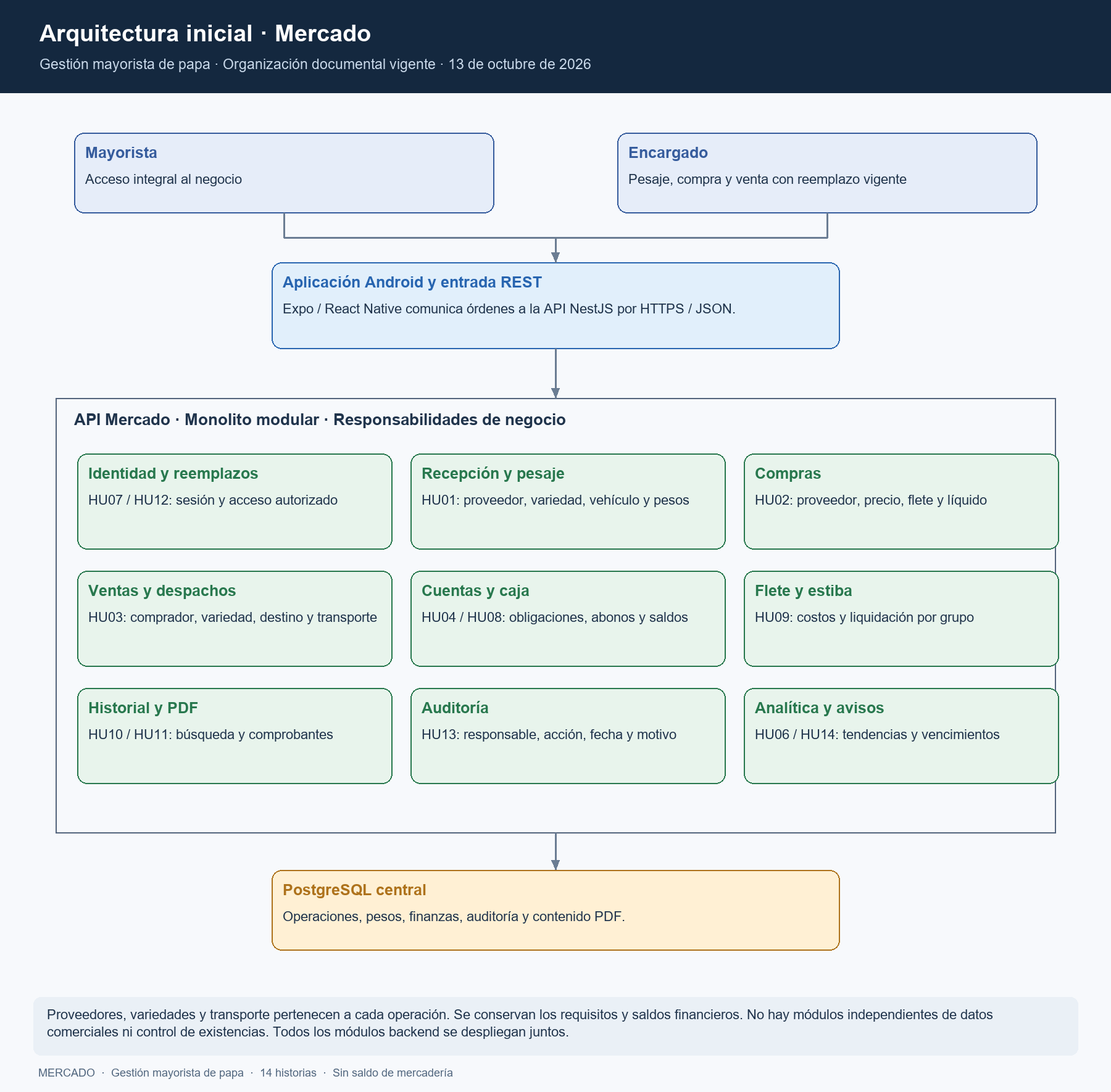
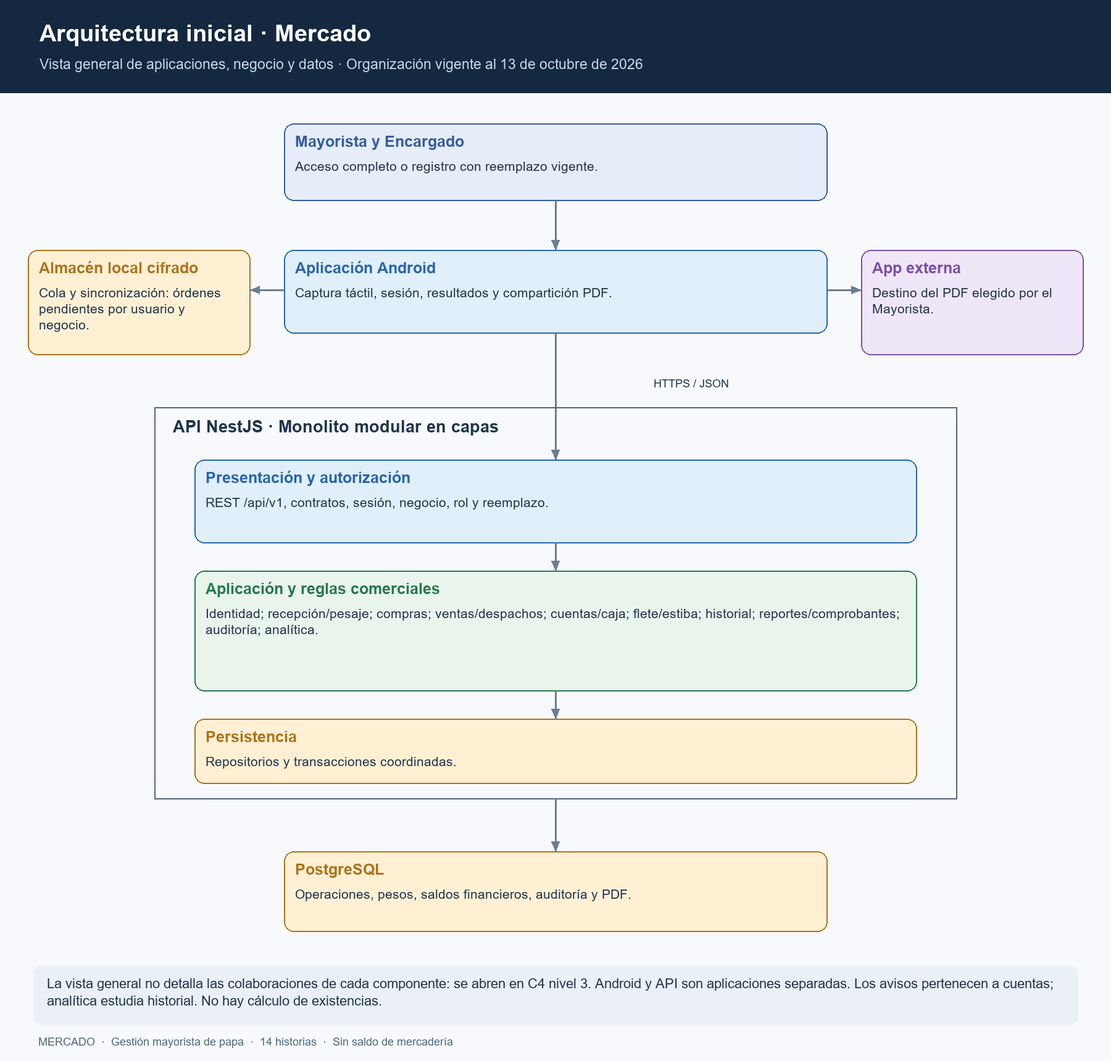
docs: consolida requisitos, módulos y diagramas de Mercado

diff --git a/docs/01-analisis-de-sistema/03-requisitos-funcionales.md b/docs/01-analisis-de-sistema/03-requisitos-funcionales.md
@@ -4,10 +4,10 @@
 
 | Proceso | Código | Requisito |
 | --- | --- | --- |
-| Recepción y compras | RF 03 | Conservar proveedores y compradores como datos asociados a las operaciones comerciales. |
-| Recepción y ventas | RF 04 | Conservar variedad, calidad, procedencia, presentación y unidad de medida en cada operación. |
 | Usuarios y acceso | RF 01 | Permitir iniciar y cerrar sesión con credenciales individuales, proteger rutas y revocar el acceso de la sesión cerrada. |
 | Usuarios y acceso | RF 02 | Permitir al Mayorista autorizar y revocar reemplazos de máximo 24 horas; restringir al Encargado al pesaje, compras y ventas durante su vigencia. |
+| Recepción, compras y ventas | RF 03 | Registrar y consultar proveedores y compradores dentro de recepción, compras y ventas, conservando contacto, ubicación, límite de crédito y estado. |
+| Recepción y ventas | RF 04 | Registrar y consultar los datos de papa dentro de recepción y ventas: variedad, calidad, procedencia, presentación, unidad de medida y precio referencial. |
 | Recepción | RF 05 | Permitir al mayorista o al encargado que lo reemplaza registrar fecha, proveedor, teléfono, vehículo, conductor y variedades antes de la descarga. |
 | Recepción | RF 06 | Permitir al mayorista o al encargado que lo reemplaza registrar consecutivamente cada saco y asociarlo con la variedad correspondiente. |
 | Recepción | RF 06A | Mostrar en tiempo real sacos, peso y promedio por variedad y del cargamento completo, y permitir correcciones autorizadas antes del cierre. |
@@ -18,15 +18,15 @@
 | Ventas | RF 12 | Generar y compartir comprobantes internos de compras y ventas confirmadas por medios digitales. |
 | Cuentas por cobrar | RF 13 | Registrar condiciones de crédito de clientes, vencimientos, abonos, saldos y compromisos de pago. |
 | Cuentas por pagar | RF 14 | Generar el saldo del proveedor cuando el pago sea en cuotas y registrar vencimientos, abonos, adelantos descontados y cancelación. |
-| Caja | RF 15 | Registrar pagos de proveedores, cobros de ventas y liquidación diaria de flete y estiba para uno o varios grupos de trabajadores. |
+| Caja | RF 15 | Registrar pagos a proveedores, cobros de ventas y liquidación diaria de flete y estiba para uno o varios grupos de trabajadores. |
 | Alertas | RF 16 | Mostrar cuentas vencidas o próximas a vencer, operaciones pendientes. |
-| Reportes | RF 17 | Consultar compras, ventas, importes registrados, costos de estiba y transporte y estado de cuentas. |
+| Reportes | RF 17 | Consultar compras, ventas, cantidades, pesos, importes registrados, costos de estiba y transporte y estado de cuentas. |
 | Analítica | RF 18 | Comparar la evolución de precios por variedad, calidad, procedencia, proveedor, cliente y periodo. |
 | Inteligencia artificial | RF 19 | Analizar progresivamente el historial validado para detectar tendencias y patrones; al alcanzar datos suficientes, generar una estimación semanal con rango, confianza y seguimiento del error. |
 | Inteligencia artificial | RF 20 | Mostrar cada estimación con rango, fecha, variables utilizadas y nivel de confianza, y comparar luego el valor previsto con el real. |
 | Operación móvil | RF 21 | Guardar temporalmente operaciones cuando no exista conexión y sincronizarlas al recuperarla. |
 | Auditoría | RF 22 | Registrar usuario, fecha, acción y motivo cuando corresponda; permitir al Mayorista consultar la auditoría de su negocio. |
-| Notificaciones | RF 23 | Enviar recordatorios configurables de pagos, cobranzas, pedidos pendientes. |
+| Notificaciones | RF 23 | Enviar recordatorios configurables de pagos, cobranzas y operaciones pendientes. |
 | Historial | RF 24 | Permitir al Mayorista buscar compras, pesajes, ventas y despachos por fecha o participante comercial y consultar su detalle. |
 
 ## Relación con los cortes de implementación
@@ -73,3 +73,18 @@ La asociación entre una venta y un cargamento de compra no se vuelve obligatori
 | HU14 | RF16, RF23 | Mostrar aviso vinculado a una cuenta y vencimiento; evitar duplicados. Canal externo pendiente de definir. |
 
 HU04 consulta cuentas; HU08 registra abonos. HU03 registra ventas; HU11 localiza registros anteriores. HU11 muestra operaciones comerciales; HU13 muestra acciones y responsables. HU14 agrega avisos de vencimiento y no una segunda consulta de saldos. RF24 explicita búsqueda e historial ya contemplados en el alcance; no reutiliza RF08/RF09 retirados. Los recordatorios externos requieren definir canal y política antes de implementarlos.
+
+## Ejemplos de saldos y excepciones
+
+| Operación ilustrativa | Importe inicial | Abono | Saldo financiero |
+| --- | --- | --- | --- |
+| Compra a crédito del proveedor | S/1.000,00 | S/600,00 pagados | S/400,00 por pagar |
+| Venta a crédito al comprador | S/800,00 | S/300,00 cobrados | S/500,00 por cobrar |
+
+En la compra el importe inicial representa la obligación final después de los descuentos acordados. Cada abono conserva fecha, responsable, origen y UUID. Reenviar el abono no modifica el saldo por segunda vez. Un abono mayor al saldo se rechaza sin escrituras parciales. El comprobante y la consulta de cuenta deben mostrar los mismos importes confirmados.
+
+Los sacos y pesos permanecen en el detalle de cada operación. Una compra de 100 sacos y una venta de 30 no producen un saldo de 70 sacos disponibles.
+
+Una anulación después de abonos no borra compra, venta ni pagos: conserva el origen y registra las compensaciones autorizadas. La comprobación debe contrastar cuenta, caja, abonos y auditoría antes/después. Anular una operación no demuestra por sí solo una devolución real de dinero; no se inventa un reembolso automático. La política del caso concreto debe estar especificada antes de implementarlo.
+
+Si el reemplazo vence antes de sincronizar, la API rechaza la confirmación y no aplica efectos. La interfaz conserva la orden como pendiente de revisión y muestra el motivo; no elimina el registro ni promete confirmación automática. El tratamiento posterior requiere una acción autorizada conforme a la especificación.

diff --git a/docs/03-diseño-de-software/diseño-interno/diseño-interno-de-modulos.md b/docs/03-diseño-de-software/diseño-interno/diseño-interno-de-modulos.md
@@ -2,18 +2,18 @@
 
 > **Proyecto:** Gestión comercial mayorista de papa · **Entregable:** 1 · **Versión:** 1.2
 
-| Componente | Responsabilidad | Corte / requisitos |
+| Responsabilidad backend | Función | Historias y requisitos |
 | --- | --- | --- |
-| Identidad | Sesiones, roles, negocio y reemplazos | 001; RF01–02 |
-| Recepción y pesaje | Proveedor, variedades, transporte, sacos, bruto/tara/neto, corrección y cierre | 002; RF03–06B |
-| Compras | Precio, flete, descuentos y liquidación | 002; RF07, RF14 |
-| Ventas y devoluciones | Despacho y compensación comercial | 003; RF10–12 |
-| Cuentas y caja | Cuotas, pagos, cobros y reversos | 004; RF13–15 |
-| Flete y estiba | Costos y liquidación de grupos | 004; RF15 |
-| Cola y sincronización | Órdenes locales, dependencias y conflictos | 005; RF21 |
-| Auditoría | Hechos anexables y consulta protegida | 005; RF22 |
-| Reportes y comprobantes | Resumen de importes, costos, precios y PDF interno | 006; RF12, RF16–18 |
-| Analítica predictiva | Estimaciones condicionadas a CL-08 | 007; RF19–20 |
+| Identidad y reemplazos | Sesiones, permisos y reemplazos | HU07, HU12; RF01–02 |
+| Recepción y pesaje | Proveedor, variedades, transporte, sacos, bruto/tara/neto y cierre | HU01; RF03–06B |
+| Compras | Proveedor, precio, flete, adelantos, descuentos y liquidación | HU02; RF03, RF07, RF14 |
+| Ventas y despachos | Comprador, variedades, destino, transporte y compensaciones | HU03; RF03–04, RF10–11, RF13 |
+| Cuentas y caja | Pagos, cobros, cuotas, saldos y avisos de vencimiento | HU04, HU08, HU14; RF13–16, RF23 |
+| Flete y estiba | Costos de transporte y liquidación de grupos | HU09; RF15 |
+| Historial comercial | Búsqueda y detalle por fecha o participante | HU11; RF24 |
+| Reportes y comprobantes | Consultas comerciales y generación/compartición PDF | HU10; RF12, RF17–18 |
+| Auditoría | Usuario, fecha, acción, motivo y origen | HU13; RF22 |
+| Analítica | Tendencias y estimaciones condicionadas a CL-08 | HU06; RF18–20 |
 
 ## Límites y datos
 
@@ -130,3 +130,22 @@ Validaciones: dinero positivo y no superior al saldo; vencimientos asociados a l
 ## Organización vigente de los datos comerciales
 
 Proveedores, compradores, variedades, vehículos y transportistas son datos de recepción, compras y ventas. No constituyen módulos independientes. Recepción conserva proveedor, variedad, vehículo y conductor del cargamento; compras utiliza esos datos para la liquidación; ventas conserva comprador, destino y transporte del despacho. RF03–RF05 mantienen su trazabilidad dentro de esas operaciones. Esta organización es el diseño vigente; no afirma una reorganización ya implementada del código.
+
+## Responsabilidad del cliente y agrupaciones
+
+Los nombres son responsabilidades del backend, no servicios desplegados por separado. **Cola y sincronización** pertenece al cliente Android (HU05; RF21): conserva órdenes cifradas y las reenvía a los contratos centrales. Los avisos financieros pertenecen a Cuentas y caja; Analítica analiza el historial. Las devoluciones y anulaciones son operaciones compensatorias dentro de Ventas y despachos o Compras, no módulos nuevos.
+
+## Ejemplos de saldos y excepciones
+
+| Operación ilustrativa | Importe inicial | Abono | Saldo financiero |
+| --- | --- | --- | --- |
+| Compra a crédito del proveedor | S/1.000,00 | S/600,00 pagados | S/400,00 por pagar |
+| Venta a crédito al comprador | S/800,00 | S/300,00 cobrados | S/500,00 por cobrar |
+
+En la compra el importe inicial representa la obligación final después de los descuentos acordados. Cada abono conserva fecha, responsable, origen y UUID. Reenviar el abono no modifica el saldo por segunda vez. Un abono mayor al saldo se rechaza sin escrituras parciales. El comprobante y la consulta de cuenta deben mostrar los mismos importes confirmados.
+
+Los sacos y pesos permanecen en el detalle de cada operación. Una compra de 100 sacos y una venta de 30 no producen un saldo de 70 sacos disponibles.
+
+Una anulación después de abonos no borra compra, venta ni pagos: conserva el origen y registra las compensaciones autorizadas. La comprobación debe contrastar cuenta, caja, abonos y auditoría antes/después. Anular una operación no demuestra por sí solo una devolución real de dinero; no se inventa un reembolso automático. La política del caso concreto debe estar especificada antes de implementarlo.
+
+Si el reemplazo vence antes de sincronizar, la API rechaza la confirmación y no aplica efectos. La interfaz conserva la orden como pendiente de revisión y muestra el motivo; no elimina el registro ni promete confirmación automática. El tratamiento posterior requiere una acción autorizada conforme a la especificación.

diff --git a/docs/04-modelo-c4/Nivel3-Diagrama-de-Componentes.md b/docs/04-modelo-c4/Nivel3-Diagrama-de-Componentes.md
@@ -24,7 +24,7 @@ Fuente editable: [nivel3-componentes.svg](../../img/fuentes-svg/nivel3-component
 | Cuentas y caja | `accounts` | Cuotas, abonos, pagos, cobros y saldo financiero; HU04/HU08 |
 | Flete y estiba | `freight`, `stowage` | Costos y liquidación trazable por grupo; HU09/RF15 |
 | Historial comercial | Consultas de `reception`, `purchase`, `sales` y `operations` | Búsqueda y detalle comercial por negocio; HU11; responsabilidad lógica sin módulo nuevo supuesto |
-| Reportes y PDF | `reports`, `receipts` | Consultas, generación y descarga autorizada de comprobantes; HU10/RF17 |
+| Reportes y PDF | `reports`, `receipts` | Consultas, generación y descarga autorizada de comprobantes; HU10/RF12; reportes RF17 |
 | Auditoría | `audit` | Registro y consulta de usuario, fecha, acción y motivo; HU13 |
 | Analítica | `analytics` | Historial validado, tendencias y estimaciones condicionadas; HU06 |
 
@@ -54,7 +54,7 @@ El contenido PDF se conserva en PostgreSQL: `receipts/receipt-document.entity.ts
 
 ## Colores de la vista
 
-Azul índigo identifica acceso; azul claro, entrada de la aplicación; verde, operaciones comerciales; ámbar, finanzas y datos; violeta, consultas y analítica; gris, auditoría y sistema externo. Las etiquetas permiten interpretar cada elemento sin depender del color.
+Azul identifica Android y entrada REST; índigo, identidad; verde, pesaje/compra/venta; ámbar, cuentas/costos y persistencia; violeta, historial/reportes/analítica; gris, auditoría. Cada elemento mantiene su etiqueta. Avisos de vencimiento pertenece a Cuentas y caja.
 
 ## Reglas del monolito y del alcance
 
@@ -75,3 +75,20 @@ Anterior: [Nivel 2 Contenedores](Nivel2-DiagramadeContenedores.md). Siguiente: [
 ## Organización vigente de los datos comerciales
 
 Proveedores, compradores, variedades, vehículos y transportistas son datos de recepción, compras y ventas. No constituyen módulos independientes. Recepción conserva proveedor, variedad, vehículo y conductor del cargamento; compras utiliza esos datos para la liquidación; ventas conserva comprador, destino y transporte del despacho. RF03–RF05 mantienen su trazabilidad dentro de esas operaciones. Esta organización es el diseño vigente; no afirma una reorganización ya implementada del código.
+
+## Correspondencia de responsabilidades
+
+| Responsabilidad backend | Función | Historias y requisitos |
+| --- | --- | --- |
+| Identidad y reemplazos | Sesiones, permisos y reemplazos | HU07, HU12; RF01–02 |
+| Recepción y pesaje | Proveedor, variedades, transporte, sacos, bruto/tara/neto y cierre | HU01; RF03–06B |
+| Compras | Proveedor, precio, flete, adelantos, descuentos y liquidación | HU02; RF03, RF07, RF14 |
+| Ventas y despachos | Comprador, variedades, destino, transporte y compensaciones | HU03; RF03–04, RF10–11, RF13 |
+| Cuentas y caja | Pagos, cobros, cuotas, saldos y avisos de vencimiento | HU04, HU08, HU14; RF13–16, RF23 |
+| Flete y estiba | Costos de transporte y liquidación de grupos | HU09; RF15 |
+| Historial comercial | Búsqueda y detalle por fecha o participante | HU11; RF24 |
+| Reportes y comprobantes | Consultas comerciales y generación/compartición PDF | HU10; RF12, RF17–18 |
+| Auditoría | Usuario, fecha, acción, motivo y origen | HU13; RF22 |
+| Analítica | Tendencias y estimaciones condicionadas a CL-08 | HU06; RF18–20 |
+
+Los nombres son responsabilidades del backend, no servicios desplegados por separado. **Cola y sincronización** pertenece al cliente Android (HU05; RF21): conserva órdenes cifradas y las reenvía a los contratos centrales. Los avisos financieros pertenecen a Cuentas y caja; Analítica analiza el historial. Las devoluciones y anulaciones son operaciones compensatorias dentro de Ventas y despachos o Compras, no módulos nuevos.

diff --git a/docs/02-arquitectura-software/componentes-arquitectonicos.md b/docs/02-arquitectura-software/componentes-arquitectonicos.md
@@ -2,18 +2,18 @@
 
 > **Proyecto:** Gestión comercial mayorista de papa · **Entregable:** 1 · **Versión:** 1.3
 
-| Componente | Responsabilidad | Corte / requisitos |
+| Responsabilidad backend | Función | Historias y requisitos |
 | --- | --- | --- |
-| Identidad | Sesiones, roles, negocio y reemplazos | 001; RF01–02 |
-| Recepción y pesaje | Proveedor, variedades, transporte, sacos, bruto/tara/neto, corrección y cierre | 002; RF03–06B |
-| Compras | Precio, flete, descuentos y liquidación | 002; RF07, RF14 |
-| Ventas y devoluciones | Despacho y compensación comercial | 003; RF10–12 |
-| Cuentas y caja | Cuotas, pagos, cobros y reversos | 004; RF13–15 |
-| Flete y estiba | Costos y liquidación de grupos | 004; RF15 |
-| Cola y sincronización | Órdenes locales, dependencias y conflictos | 005; RF21 |
-| Auditoría | Hechos anexables y consulta protegida | 005; RF22 |
-| Reportes y comprobantes | Resumen de importes, costos, precios y PDF interno | 006; RF12, RF16–18 |
-| Analítica predictiva | Estimaciones condicionadas a CL-08 | 007; RF19–20 |
+| Identidad y reemplazos | Sesiones, permisos y reemplazos | HU07, HU12; RF01–02 |
+| Recepción y pesaje | Proveedor, variedades, transporte, sacos, bruto/tara/neto y cierre | HU01; RF03–06B |
+| Compras | Proveedor, precio, flete, adelantos, descuentos y liquidación | HU02; RF03, RF07, RF14 |
+| Ventas y despachos | Comprador, variedades, destino, transporte y compensaciones | HU03; RF03–04, RF10–11, RF13 |
+| Cuentas y caja | Pagos, cobros, cuotas, saldos y avisos de vencimiento | HU04, HU08, HU14; RF13–16, RF23 |
+| Flete y estiba | Costos de transporte y liquidación de grupos | HU09; RF15 |
+| Historial comercial | Búsqueda y detalle por fecha o participante | HU11; RF24 |
+| Reportes y comprobantes | Consultas comerciales y generación/compartición PDF | HU10; RF12, RF17–18 |
+| Auditoría | Usuario, fecha, acción, motivo y origen | HU13; RF22 |
+| Analítica | Tendencias y estimaciones condicionadas a CL-08 | HU06; RF18–20 |
 
 Los nombres representan responsabilidades; la cola pertenece al cliente y la predicción aún no es un contenedor desplegado. RF23 permanece requisito documental: no se acredita aquí un canal de notificaciones configurables implementado.
 
@@ -63,3 +63,7 @@ La vista de componentes utiliza colores por responsabilidad y se mantiene alinea
 ## Organización vigente de los datos comerciales
 
 Proveedores, compradores, variedades, vehículos y transportistas son datos de recepción, compras y ventas. No constituyen módulos independientes. Recepción conserva proveedor, variedad, vehículo y conductor del cargamento; compras utiliza esos datos para la liquidación; ventas conserva comprador, destino y transporte del despacho. RF03–RF05 mantienen su trazabilidad dentro de esas operaciones. Esta organización es el diseño vigente; no afirma una reorganización ya implementada del código.
+
+## Responsabilidad del cliente y agrupaciones
+
+Los nombres son responsabilidades del backend, no servicios desplegados por separado. **Cola y sincronización** pertenece al cliente Android (HU05; RF21): conserva órdenes cifradas y las reenvía a los contratos centrales. Los avisos financieros pertenecen a Cuentas y caja; Analítica analiza el historial. Las devoluciones y anulaciones son operaciones compensatorias dentro de Ventas y despachos o Compras, no módulos nuevos.

diff --git a/docs/02-arquitectura-software/arquitectura-inicial.md b/docs/02-arquitectura-software/arquitectura-inicial.md
@@ -1,6 +1,6 @@
 # Arquitectura inicial
 
-> **Proyecto:** Gestión mayorista de papa · **Entregable:** 1 · **Versión:** 1.3 · **Actualización:** 8 de octubre de 2026
+> **Proyecto:** Gestión mayorista de papa · **Entregable:** 1 · **Versión:** 1.3 · **Actualización:** 13 de octubre de 2026
 
 ## Visión de la solución
 
@@ -26,18 +26,22 @@ Fuente editable: [arquitectura-inicial.svg](../../img/fuentes-svg/arquitectura-i
 
 El color facilita lectura, pero cada responsabilidad tiene etiqueta. La agrupación de presentación y entrada API es conceptual: Android y NestJS son aplicaciones distintas. No significa que se desplieguen juntas ni que sus datos se compartan directamente.
 
-## Módulos del negocio
+## Responsabilidades del negocio
 
-- Identidad y reemplazos: acceso individual, sesión, rol, negocio y autorización temporal.
-- Recepción y pesaje: detalle saco por saco, tara, neto, totales y cierre trazable.
-- Compras: precio negociado, flete, adelantos, descuentos y monto líquido.
-- Ventas y despachos: registro de cantidades enviadas, destino y condiciones comerciales, sin validar existencias.
-- Cuentas y caja: cuotas, abonos, pagos, cobros, vencimientos y saldos de dinero.
-- Flete y estiba: registro y liquidación de costos de transporte y grupos de trabajadores.
-- Historial y comprobantes: búsqueda, consultas comerciales, reportes y PDF interno.
-- Auditoría y analítica: responsables, acciones y análisis del historial validado; estimaciones condicionadas a criterios y evaluación aprobados.
+| Responsabilidad backend | Función | Historias y requisitos |
+| --- | --- | --- |
+| Identidad y reemplazos | Sesiones, permisos y reemplazos | HU07, HU12; RF01–02 |
+| Recepción y pesaje | Proveedor, variedades, transporte, sacos, bruto/tara/neto y cierre | HU01; RF03–06B |
+| Compras | Proveedor, precio, flete, adelantos, descuentos y liquidación | HU02; RF03, RF07, RF14 |
+| Ventas y despachos | Comprador, variedades, destino, transporte y compensaciones | HU03; RF03–04, RF10–11, RF13 |
+| Cuentas y caja | Pagos, cobros, cuotas, saldos y avisos de vencimiento | HU04, HU08, HU14; RF13–16, RF23 |
+| Flete y estiba | Costos de transporte y liquidación de grupos | HU09; RF15 |
+| Historial comercial | Búsqueda y detalle por fecha o participante | HU11; RF24 |
+| Reportes y comprobantes | Consultas comerciales y generación/compartición PDF | HU10; RF12, RF17–18 |
+| Auditoría | Usuario, fecha, acción, motivo y origen | HU13; RF22 |
+| Analítica | Tendencias y estimaciones condicionadas a CL-08 | HU06; RF18–20 |
 
-Estas agrupaciones resumen responsabilidades, no crean servicios independientes ni sustituyen la organización actual del código.
+Los nombres son responsabilidades del backend, no servicios desplegados por separado. **Cola y sincronización** pertenece al cliente Android (HU05; RF21): conserva órdenes cifradas y las reenvía a los contratos centrales. Los avisos financieros pertenecen a Cuentas y caja; Analítica analiza el historial. Las devoluciones y anulaciones son operaciones compensatorias dentro de Ventas y despachos o Compras, no módulos nuevos.
 
 ## Persistencia y continuidad
 

diff --git a/docs/01-analisis-de-sistema/07-decisiones-arquitectonicas.md b/docs/01-analisis-de-sistema/07-decisiones-arquitectonicas.md
@@ -49,3 +49,13 @@ Impacto de implementación: retirar navegación y contratos de existencias; adap
 El usuario aprueba añadir HU07–HU14 a las seis historias vigentes el 7 de octubre de 2026. Las nuevas historias reutilizan identidad, cuentas/caja, estiba, comprobantes, historial y auditoría; no crean inventario ni amplían permisos del Encargado. RF24 explicita búsqueda comercial. Canal externo de HU14 permanece por aclarar. La renumeración anterior se documenta en la fuente compartida para evitar que HU07 siga significando analítica.
 
 Actualización de evidencia compartida: la propuesta analítica fue aprobada íntegramente el 6 de octubre de 2026. CL-08 tiene criterios aprobados; la suficiencia real del historial, evaluación, implementación y convergencia no se acreditan por esa aprobación. El canal externo de recordatorios continúa por definir.
+
+## Organización documental aprobada el 13 de octubre
+
+Los nombres son responsabilidades del backend, no servicios desplegados por separado. **Cola y sincronización** pertenece al cliente Android (HU05; RF21): conserva órdenes cifradas y las reenvía a los contratos centrales. Los avisos financieros pertenecen a Cuentas y caja; Analítica analiza el historial. Las devoluciones y anulaciones son operaciones compensatorias dentro de Ventas y despachos o Compras, no módulos nuevos. Los datos de participantes, variedades y transporte se registran dentro de las operaciones comerciales; RF03/RF04 conservan sus campos aprobados. Esta decisión documental no certifica reorganización del código.
+
+## Condiciones de habilitación analítica CL-08
+
+La política aprobada exige 26 semanas completas consecutivas por negocio y variedad, con al menos cinco ventas confirmadas válidas por semana. El objetivo es precio semanal de venta por kilogramo ponderado por peso. No se imputan fechas, pesos ni precios y se identifican operaciones excluidas.
+
+Las ocho semanas finales se evalúan progresivamente, sin utilizar datos futuros. El error absoluto medio debe ser al menos 10 % menor que la referencia del precio de la semana anterior, y el rango debe contener al menos siete de los ocho valores reales. La cobertura objetivo del 80 % no es una garantía estadística ni acredita estacionalidad anual. El Mayorista accede a las estimaciones solo cuando hay datos suficientes y evaluación aprobada. La aprobación de criterios no prueba su cumplimiento.

diff --git a/README.md b/README.md
@@ -35,7 +35,7 @@ Documentación de la aplicación móvil de gestión comercial para mayoristas de
 
 La carpeta `img` contiene 11 diagramas PNG propios del proyecto y sus fuentes SVG disponibles en `img/fuentes-svg`. Los documentos incluyen las imágenes y sus fuentes SVG editables. `tecnologia` queda reservada para recursos técnicos del entregable.
 
-Fuente funcional: `build_propuesta.py` y `Propuesta_Aplicacion_Movil_Gestion_Comercial_Papa.docx`, mantenidos en el proyecto documental compartido. Las especificaciones y evidencias SDD continúan en ese proyecto, fuera de este primer entregable. La predicción requiere cumplir los criterios CL-08 aprobados y validar la implementación y la convergencia visual y operativa conserva los pendientes indicados en los documentos.
+Fuente funcional: `build_propuesta.py` y `Propuesta_Aplicacion_Movil_Gestion_Comercial_Papa.docx`, mantenidos en el proyecto documental compartido. Las especificaciones y evidencias SDD continúan en ese proyecto, fuera de este primer entregable. La predicción requiere cumplir los criterios CL-08 descritos en decisiones arquitectónicas y validar su implementación. Los documentos distinguen objetivos de evidencia operativa pendiente.
 
 ## Criterio de adaptación del ejemplo
 

diff --git a/docs/01-analisis-de-sistema/05-restricciones.md b/docs/01-analisis-de-sistema/05-restricciones.md
@@ -23,3 +23,9 @@
 | Git y repositorio GitHub | Versionar requisitos, diagramas y decisiones junto con sus cambios |
 
 Estas decisiones complementan R01–R07 sin renumerarlas. El ejemplo académico usa un marketplace web; aquí no se incorporan carrito, sellers, ERP, courier ni pasarela de pagos porque no forman parte del alcance aprobado.
+
+## Condiciones de habilitación analítica CL-08
+
+La política aprobada exige 26 semanas completas consecutivas por negocio y variedad, con al menos cinco ventas confirmadas válidas por semana. El objetivo es precio semanal de venta por kilogramo ponderado por peso. No se imputan fechas, pesos ni precios y se identifican operaciones excluidas.
+
+Las ocho semanas finales se evalúan progresivamente, sin utilizar datos futuros. El error absoluto medio debe ser al menos 10 % menor que la referencia del precio de la semana anterior, y el rango debe contener al menos siete de los ocho valores reales. La cobertura objetivo del 80 % no es una garantía estadística ni acredita estacionalidad anual. El Mayorista accede a las estimaciones solo cuando hay datos suficientes y evaluación aprobada. La aprobación de criterios no prueba su cumplimiento.

diff --git a/docs/02-arquitectura-software/estilo-arquitectonico.md b/docs/02-arquitectura-software/estilo-arquitectonico.md
@@ -1,6 +1,6 @@
 # Estilo arquitectónico
 
-> **Proyecto:** Gestión mayorista de papa · **Versión:** 1.3 · **Actualización:** 8 de octubre de 2026
+> **Proyecto:** Gestión mayorista de papa · **Versión:** 1.3 · **Actualización:** 13 de octubre de 2026
 
 ## Estilo seleccionado
 
@@ -33,7 +33,7 @@ Sesión, aislamiento por negocio, auditoría, errores y trazas son responsabilid
 | Ventas y cuentas | Despachos, cuotas, abonos, caja y costos de estiba | HU03, HU04, HU08, HU09 |
 | Reportes y auditoría | Historial, comprobantes, responsables, avisos y analítica | HU06, HU10, HU11, HU13, HU14 |
 
-Los grupos de la imagen resumen responsabilidades para facilitar lectura; no son cinco módulos nuevos que sustituyen las carpetas actuales. La cola offline HU05 pertenece al cliente Android y reenvía órdenes idempotentes a los mismos contratos centrales.
+Las agrupaciones de la tabla resumen responsabilidades para facilitar lectura; son agrupaciones de responsabilidades y no sustituyen las carpetas actuales. La cola offline HU05 pertenece al cliente Android y reenvía órdenes idempotentes a los mismos contratos centrales.
 
 ## Reglas de interacción
 

diff --git a/docs/01-analisis-de-sistema/08-escenarios-atributos-calidad.md b/docs/01-analisis-de-sistema/08-escenarios-atributos-calidad.md
@@ -15,7 +15,7 @@ Los objetivos provienen de la propuesta. La existencia de mecanismos o pruebas p
 | AC07 | Equipo modifica regla de estiba | Módulo costos y regresión | Cambio localizado | No alterar pesaje ni cuentas; revisión de dependencias y pruebas |
 | AC08 | Falla la base central | Respaldo y restauración | Recuperar operación | RPO 24 h / RTO 4 h; simulacro medido; respaldo restaurado previamente, SLA no acreditado |
 
-Evidencia histórica: backend (documentación compartida del proyecto) y frontend (documentación compartida del proyecto).
+La tabla detalla el método de verificación, pero este repositorio no adjunta los informes de ejecución. Estado de esta entrega: objetivos definidos, evidencia operativa no incluida. No atribuir cumplimiento al enlace de un documento compartido.
 
 ## EQ-01 · AC01
 

diff --git a/docs/01-analisis-de-sistema/01-actores.md b/docs/01-analisis-de-sistema/01-actores.md
@@ -13,7 +13,7 @@ El negocio compra cargamentos de papa, pesa saco por saco durante la descarga, n
 
 | Participante comercial | Relación con el proceso | Acceso a la aplicación |
 | --- | --- | --- |
-| Proveedor/Cliente | Entrega cargamentos y recibe la liquidación o saldo | No se define cuenta de acceso |
+| Proveedor | Entrega cargamentos y recibe la liquidación o saldo | No se define cuenta de acceso |
 | Comprador | Recibe la venta y mantiene compromisos de pago | No se define cuenta de acceso |
 | Transportista/conductor | Traslada mercadería y participa en el acuerdo de flete | No se define cuenta de acceso |
 | Grupo de estibadores | Realiza carga/descarga y recibe liquidación | No se define cuenta de acceso |

diff --git a/docs/02-arquitectura-software/enfoque-aquitectonico.md b/docs/02-arquitectura-software/enfoque-aquitectonico.md
@@ -1,6 +1,6 @@
 # Enfoque arquitectónico
 
-> **Proyecto:** Gestión mayorista de papa · **Versión:** 1.3 · **Actualización:** 8 de octubre de 2026
+> **Proyecto:** Gestión mayorista de papa · **Versión:** 1.3 · **Actualización:** 13 de octubre de 2026
 
 ## Enfoque seleccionado
 
